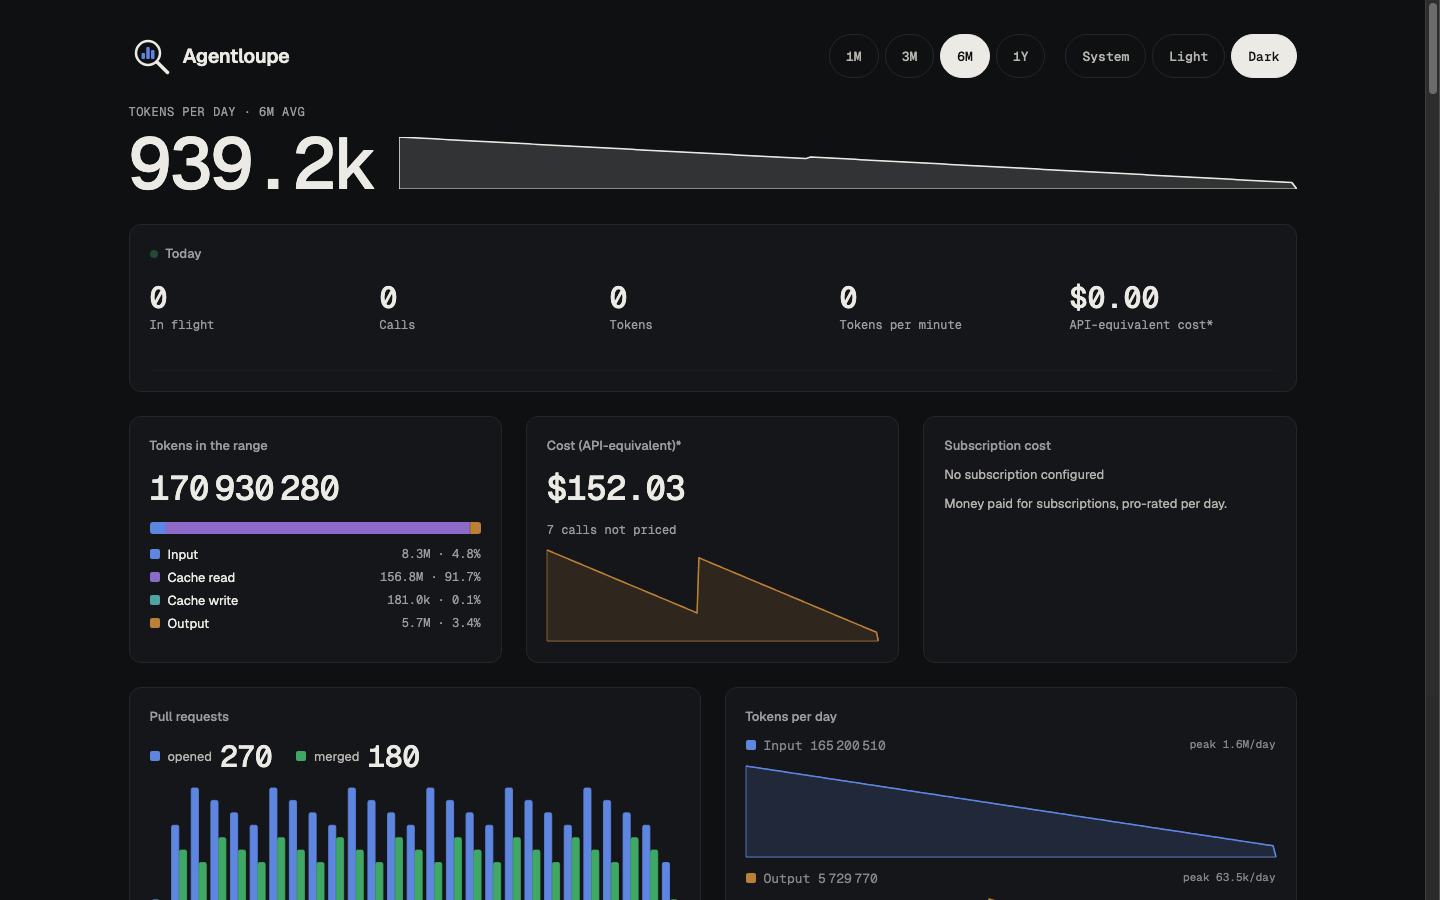
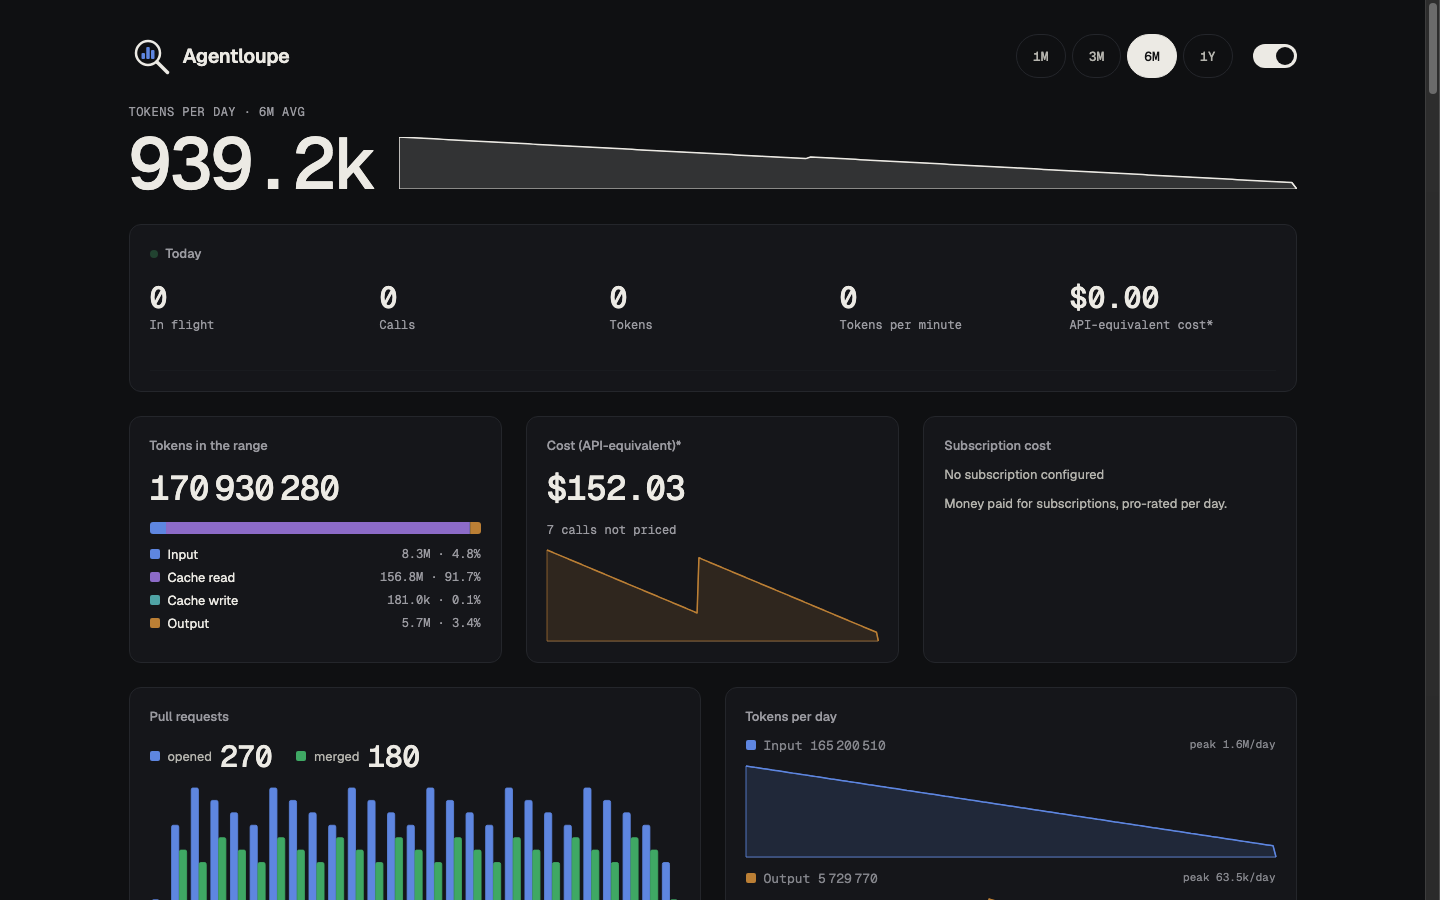
checkpoint(CR-0020): light mode scenario drives the scheme switch, two runs and new screenshots
- web.scheme.scenario.mjs: every check of the buttons System, Light, Dark uses the switch: aria-checked for the pressed state, the click that sets the system value for the return to the system (at light and at dark, then the follow of the preference), one Tab to the switch and Space and Enter for the keyboard, the role, name, size, and place of the switch, and the contrast of the knob and the track.
- web.scheme.scenario.sh: unchanged; its text names no button.
- dashboard.light-mode.md: the new steps, the run log of 2 of 2 passed runs (35 checks each), a negative control (6 checks failed when the click always stores), the render runs, and the four screenshots from run 2.

Changed region(s): [[0.75, 0.0311, 0.9062, 0.0933], [0.6562, 0.0311, 0.6875, 0.0933]]

diff --git a/.agents/scenarios/dashboard.light-mode.md b/.agents/scenarios/dashboard.light-mode.md
@@ -1,11 +1,11 @@
-<!-- @agents-index User scenario: the dashboard follows the system color scheme, the header control overrides it, and every section and state stays readable. -->
+<!-- @agents-index User scenario: the dashboard follows the system color scheme, the header scheme switch overrides it, and every section and state stays readable. -->
 # Scenario: dashboard light mode
 
 Source: the approved change request for the light color scheme of the dashboard.
 
 ## Goal
 
-A reader with a light system appearance gets a light page with no action, can select Light, Dark, or System in the header, keeps that choice after a reload, and reads each section and each state in both schemes. The private page stays dark.
+A reader with a light system appearance gets a light page with no action, can set the other scheme with the switch "Dark mode" in the header, gets back to the system preference with the click that sets the scheme of the system, keeps an override after a reload, and reads each section and each state in both schemes. The private page stays dark.
 
 ## Driver
 
@@ -17,18 +17,18 @@ A reader with a light system appearance gets a light page with no action, can se
 1. Seed 400 days on a scratch data directory.
 2. Start `loupe serve` on that data directory.
 3. Set the emulated system preference to light. Clear the scheme key `dashboard.scheme`.
-4. Open the page at 1440 px on the range 6M. Check that the first frame and the loaded page are light, and that the button "System" is pressed.
-5. Read the lowest text contrast and the lowest graphic contrast of the sections.
+4. Open the page at 1440 px on the range 6M. Check that the first frame and the loaded page are light, that the switch has `aria-checked="false"`, and that the key is absent.
+5. Read the lowest text contrast and the lowest graphic contrast of the sections, and the contrast of the knob on the track and of the track on the page with the switch off.
 6. Take the screenshot `dashboard.light-mode.light.1440.png`.
-7. Select "Dark" with the mouse. Check that the page is dark at once, that no request to `/v1/days` goes out, that the live socket stays open, and that the fragment stays `#range=6M`.
+7. Click the switch with the mouse. Check that the page is dark at once, that `aria-checked` is `true`, that the key is `dark` (dark is not the system value), that no request to `/v1/days` goes out, that the live socket stays open, and that the fragment stays `#range=6M`. Read the text contrast in dark, and the contrast of the knob and the track with the switch on.
 8. Take the screenshot `dashboard.light-mode.dark.1440.png`.
-9. Reload. Check that the page is dark and that "Dark" is pressed.
-10. Select "System". Check that the page is light and that the key is absent.
-11. Store the invalid value `sepia` and reload. Check that the page follows the preference and that "System" is pressed.
-12. With no key and the preference dark, change the preference to light: the page turns light with no reload. Select "Dark" and change the preference again: the page stays dark. With the preference dark, select "Light" and reload: the page is light and "Light" is pressed.
-13. Check the place of the control: at 1440 px the brand is at the left, and the range group and then the group "Color scheme" are at the right in one row; at 360 px the group is visible below the range group with no horizontal scroll. Each button is at least 44 px high. From the last range button, Tab reaches System, Light, and Dark; Enter selects System and Space selects Dark. Repeat steps 3 to 13 at 360 px, with the screenshots `dashboard.light-mode.light.360.png` and `dashboard.light-mode.dark.360.png`.
-14. In each scheme, show the empty state, the error state with "Try again", "GitHub not connected", "Partial GitHub data", and the paused live section; read the lowest text contrast, the contrast of the paused figures, and the contrast of the focus outline of each button.
-15. With the preference light and the key `light`, open `/private/` with the admin token. Check that the page background is the dark `--color-bg`, that the root has no scheme, that `color-scheme` is dark, and that the page has no control.
+9. Reload. Check that the page is dark, that `aria-checked` is `true`, and that the key is `dark`.
+10. Click the switch. The new scheme, light, is the system value: check that the page is light, that `aria-checked` is `false`, and that the key is absent.
+11. Store the invalid value `sepia` and reload. Check that the page follows the preference, light, with `aria-checked="false"`.
+12. With no key and the preference dark, change the preference to light: the page turns light with no reload. Click the switch (key `dark`) and change the preference to dark and back to light: the page stays dark. With the preference dark, click the switch: the key is `light`; reload: the page is light. Click the switch again: the new scheme, dark, is the system value, so the key is absent; change the preference to light: the page follows to light with no reload.
+13. Check the switch: one button with the role `switch`, the name "Dark mode", no text, 44 by 24 px, directly after the range group, and no group of three buttons. At 1440 px the brand is at the left, and the range group and then the switch are at the right in one row; at 360 px the switch is visible after the range group with no horizontal scroll. With the preference light and no key, from the last range button, one Tab reaches the switch; Space sets dark with the key `dark`, and Enter sets light with no key. Repeat steps 3 to 13 at 360 px, with the screenshots `dashboard.light-mode.light.360.png` and `dashboard.light-mode.dark.360.png`.
+14. In each scheme, show the empty state, the error state with "Try again", "GitHub not connected", "Partial GitHub data", and the paused live section; read the lowest text contrast, the contrast of the paused figures, and the contrast of the focus outline of each button, the switch included.
+15. With the preference light and the key `light`, open `/private/` with the admin token. Check that the page background is the dark `--color-bg`, that the root has no scheme, that `color-scheme` is dark, and that the page has no switch.
 16. Stop the server and the browser.
 
 ## Success condition
@@ -46,6 +46,17 @@ Each check passes at both widths and in both schemes, in at least 2 of 2 runs, a
 | 2026-10-23 | `web.render.sh` with `--scheme light` and `dark`, each with `--stored none`, `light`, `dark`, `invalid` | passed | `first_frame_scheme_ok: true` in 8 of 8 runs |
 | 2026-10-23 | negative control, scheme script removed from `index.html`, `--scheme light --stored none` | failed as expected | `first_frame_scheme_ok: false`: the first frame showed the dark background before the module set light |
 
-Outcome: the change is verified, 2 of 2 runs passed at each width and in both schemes.
+The rows above ran against the three buttons System, Light, Dark. The owner then replaced them with one switch, and the driver checks the switch since the rows below.
+
+| Date | Run | Result | Observed |
+|---|---|---|---|
+| 2026-10-23 | `web.scheme.scenario.sh`, switch, run 1 | passed | `checks: 35 failed: 0 status: passed`; light at 1440 px: `rgb(243, 242, 238)`, `aria-checked` false, no key; click: `rgb(15, 16, 18)`, `aria-checked` true, key `dark`, 0 new `/v1/days` requests, 1 socket open, `#range=6M`, no reload; the click to the system value removes the key at light and at dark, and the page then follows the preference; text contrast 5.38 light and 4.98 dark, graphic contrast 3.25 light; knob and track 5.11 off in light and 15.82 on in dark; switch 44 by 24 px after the range group, in the row at 1440 px and after the range buttons at 360 px; Tab reaches the switch, Space and Enter toggle; private page `rgb(15, 16, 18)`, no scheme, no switch |
+| 2026-10-23 | negative control, the click always stores the new scheme (`scheme.control.js` changed for this run only, then restored) | failed as expected | `checks: 35 failed: 6 status: failed`: the three checks of the return to the system (click to light, click to dark, and Enter) failed at each width |
+| 2026-10-23 | `web.scheme.scenario.sh`, switch, run 2 | passed | `checks: 35 failed: 0 status: passed`, the same values; screenshots from this run |
+| 2026-10-23 | `web.render.sh --days 400 --scheme light` | passed | `draw_ms: 27.6 first_frame_scheme_ok: true min_text_contrast: 5.38 min_graphic_contrast: 3.25 min_paused_figure_contrast: 5.72 min_focus_contrast: 6.11`; the states: empty 6.11, error 6.11, not connected 5.72, partial 5.38, paused 5.38, paused message 7.2 |
+| 2026-10-23 | `web.render.sh --days 400 --scheme dark` | passed | `draw_ms: 24.2 first_frame_scheme_ok: true min_text_contrast: 4.98 min_paused_figure_contrast: 4.98 min_focus_contrast: 8.92`; the states: empty 6.46, error 6.8, not connected 4.98, partial 4.98, paused 4.98, paused message 6.46 |
+| 2026-10-23 | `web.render.sh` with `--scheme light` and `dark`, each with `--stored none`, `light`, `dark`, `invalid`, switch | passed | `first_frame_scheme_ok: true` and `status: passed` in 8 of 8 runs; `draw_ms` from 22.0 to 30.1 |
+
+Outcome: the change is verified with the switch, 2 of 2 runs passed at each width and in both schemes, and the negative control failed as expected.
 
 Screenshots: `dashboard.light-mode.light.1440.png`, `dashboard.light-mode.dark.1440.png`, `dashboard.light-mode.light.360.png`, `dashboard.light-mode.dark.360.png`.
